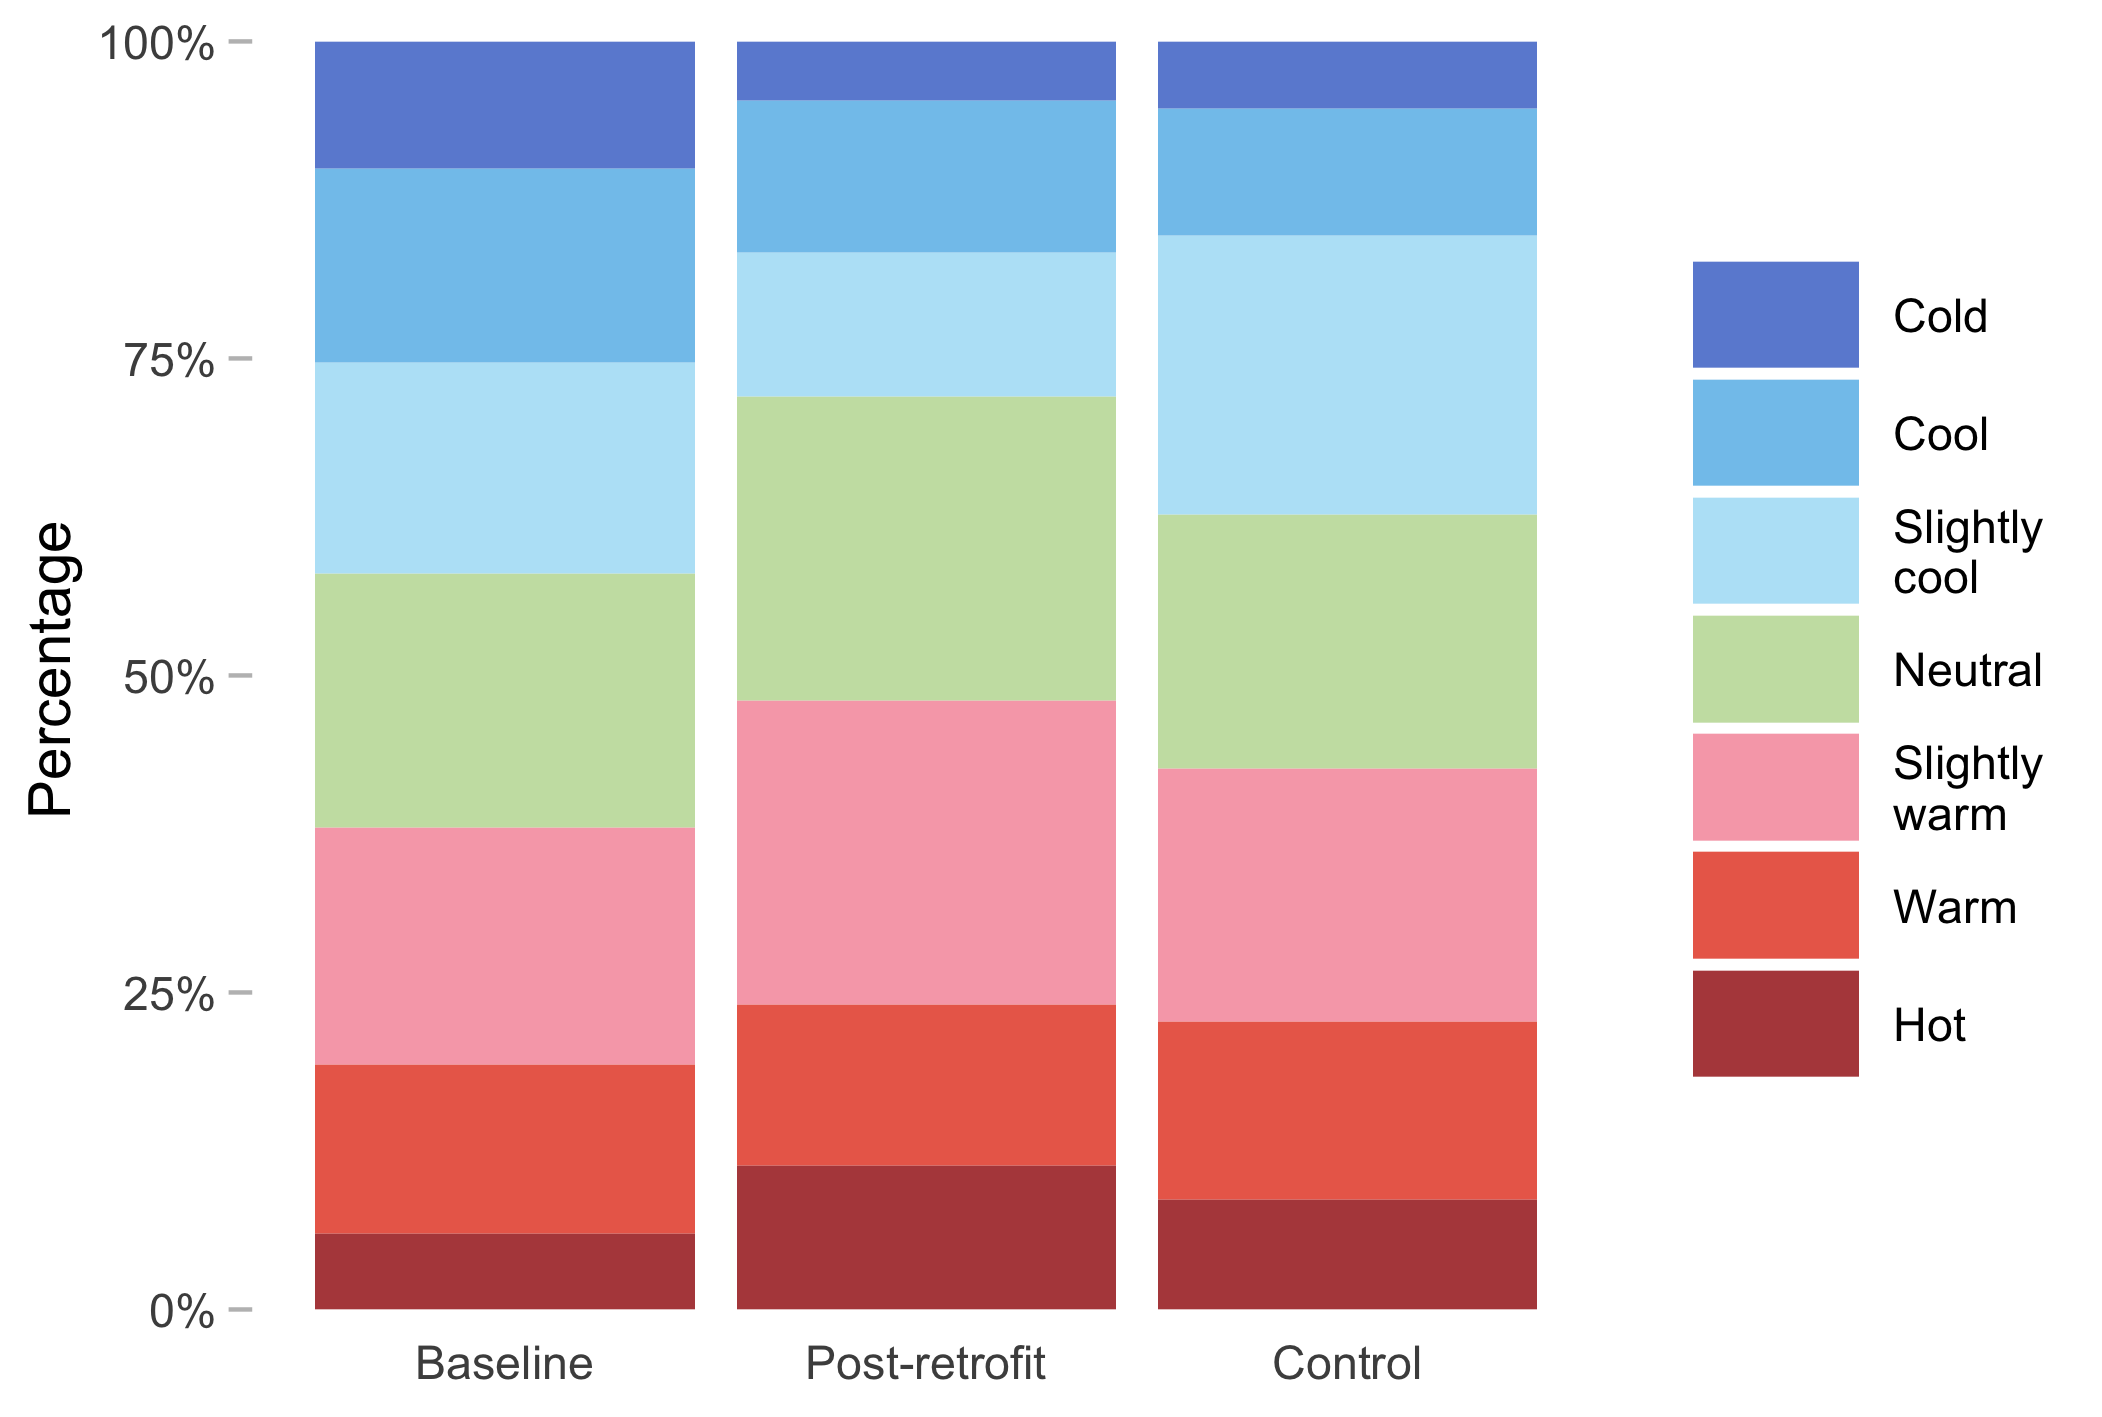
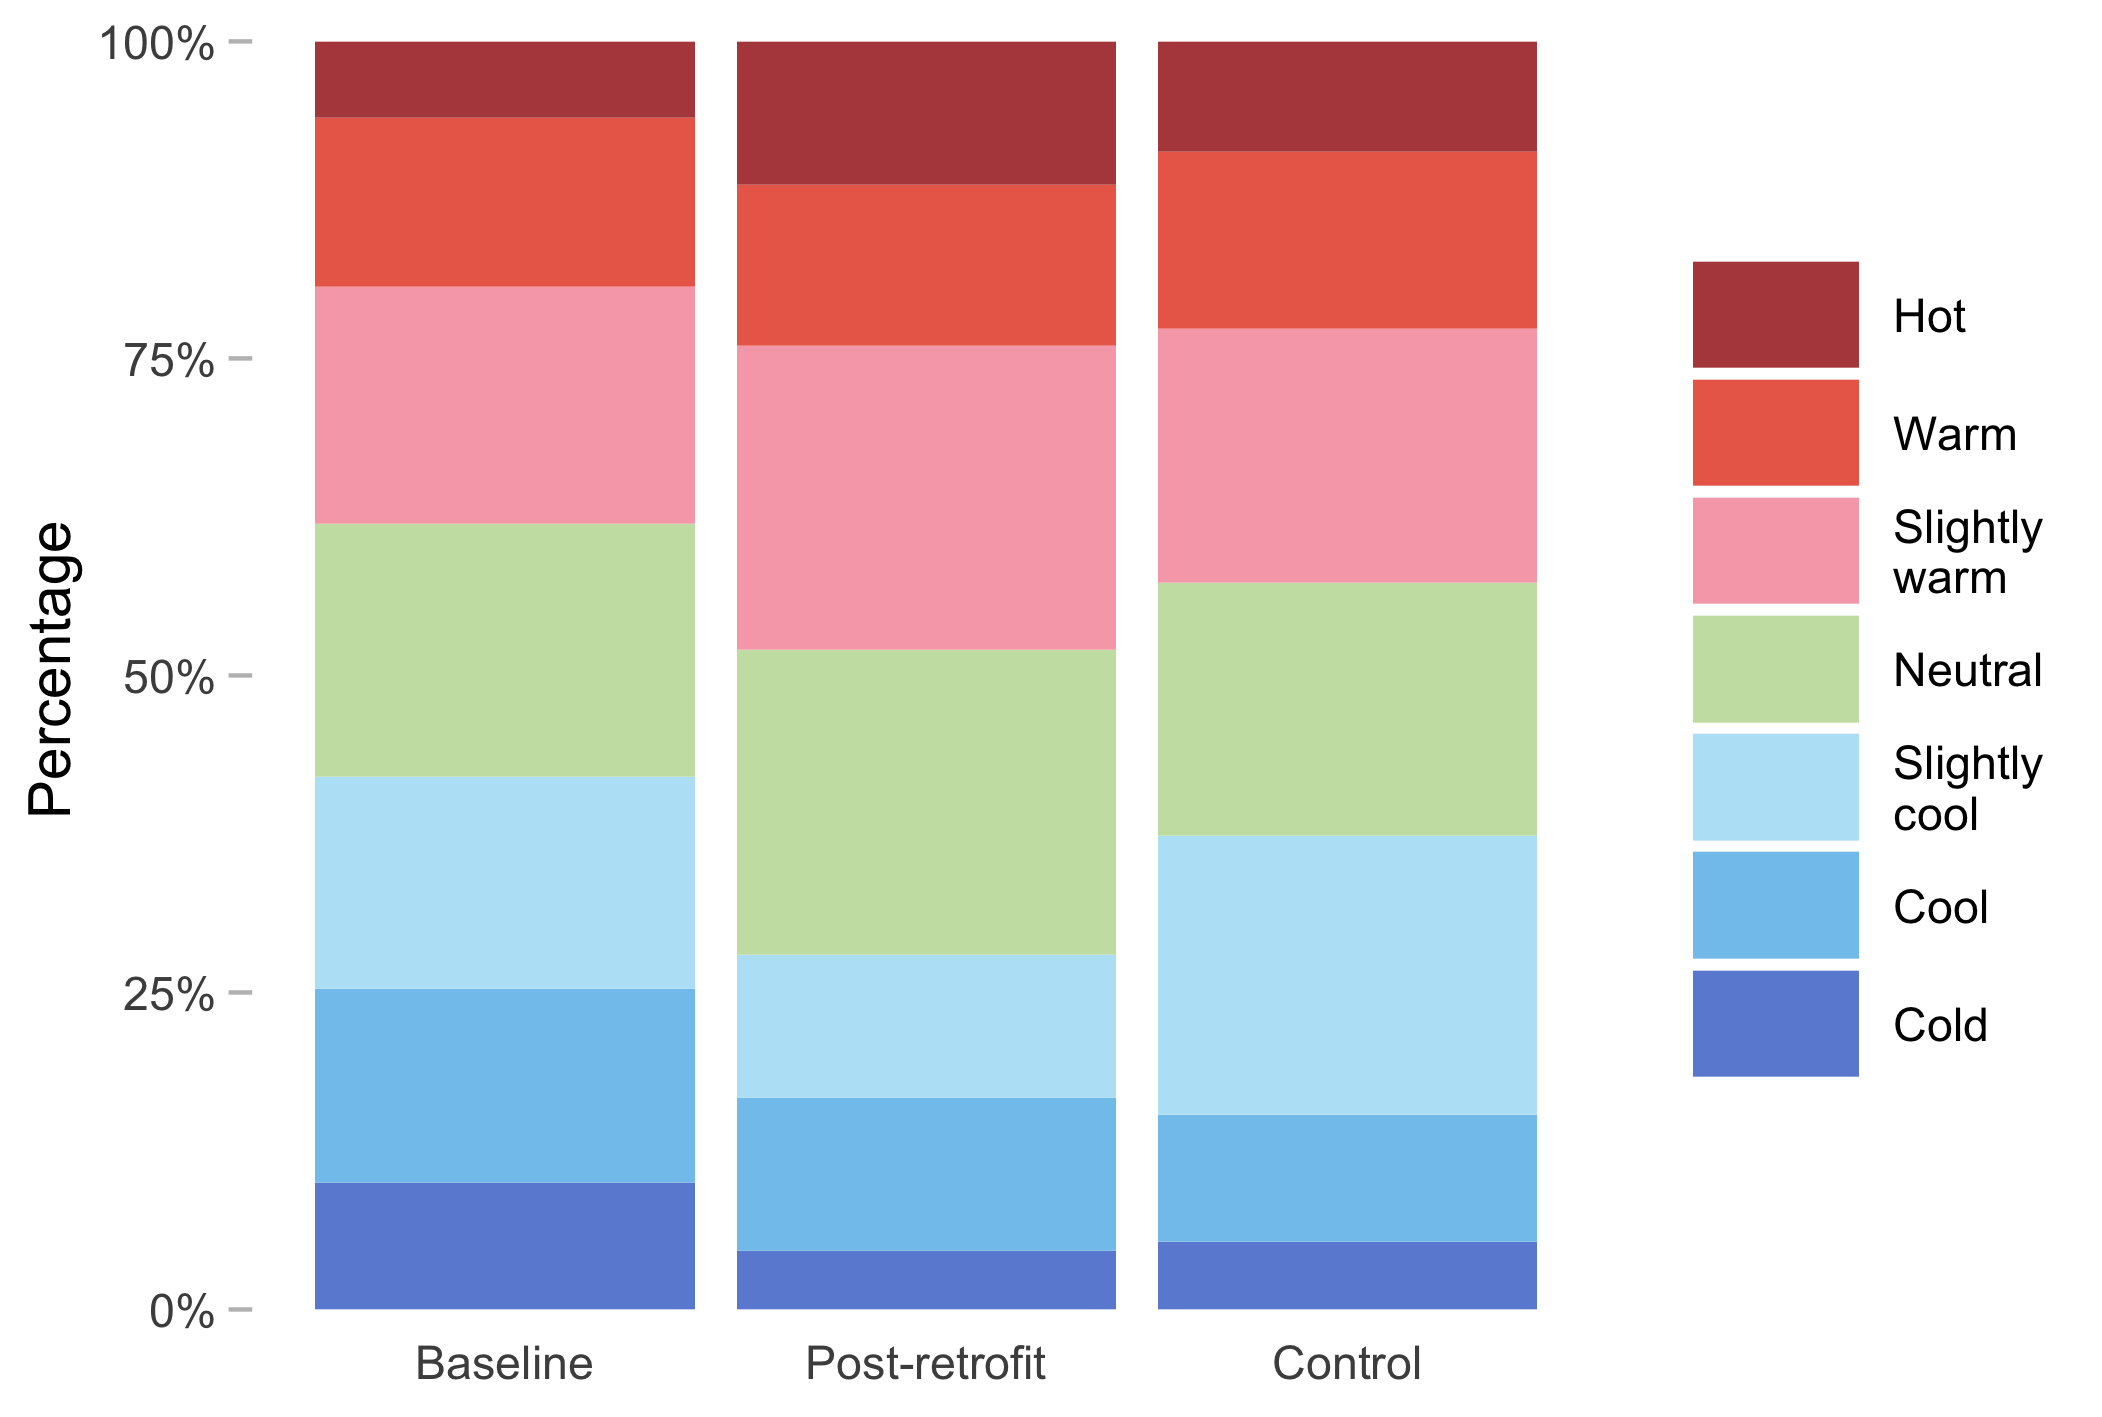
fix: reverse level order

diff --git a/docs/pages/styling/color-palettes.html b/docs/pages/styling/color-palettes.html
@@ -285,7 +285,7 @@ pre > code.sourceCode > span > a:first-child::before { text-decoration: underlin
 <details class="code-fold">
 <summary>Code</summary>
 <div class="code-copy-outer-scaffold"><div class="sourceCode cell-code" id="cb3"><pre class="sourceCode r code-with-copy"><code class="sourceCode r"><span id="cb3-1"><a href="#cb3-1" aria-hidden="true" tabindex="-1"></a>thermal_preference_levels <span class="ot">&lt;-</span> <span class="fu">c</span>(<span class="st">"-1"</span>, <span class="st">"0"</span>, <span class="st">"+1"</span>)</span>
-<span id="cb3-2"><a href="#cb3-2" aria-hidden="true" tabindex="-1"></a>thermal_preference_labels <span class="ot">&lt;-</span> <span class="fu">c</span>(<span class="st">"Cooler"</span>, <span class="st">"No change"</span>, <span class="st">"Warmer"</span>)</span>
+<span id="cb3-2"><a href="#cb3-2" aria-hidden="true" tabindex="-1"></a>thermal_preference_labels <span class="ot">&lt;-</span> <span class="fu">c</span>(<span class="st">"Warmer"</span>, <span class="st">"No change"</span>,<span class="st">"Cooler"</span>)</span>
 <span id="cb3-3"><a href="#cb3-3" aria-hidden="true" tabindex="-1"></a>thermal_preference_palette <span class="ot">&lt;-</span> <span class="fu">c</span>(<span class="st">"#82c6ed"</span>,<span class="st">"#c9e0b0"</span>,<span class="st">"#eb6b58"</span>)</span></code></pre></div><button title="Copy to Clipboard" class="code-copy-button"><i class="bi"></i></button></div>
 </details>
 </div>

diff --git a/docs/pages/code/python.html b/docs/pages/code/python.html
@@ -189,7 +189,7 @@ pre > code.sourceCode > span > a:first-child::before { text-decoration: underlin
 </ul>
             <ul class="navbar-nav navbar-nav-scroll ms-auto">
   <li class="nav-item compact">
-    <a class="nav-link" href="https://github.com/t-kramer/plot-library"> <i class="bi bi-github" role="img" aria-label="GitHub repository">
+    <a class="nav-link" href="https://centerforthebuiltenvironment.github.io/chart-library/"> <i class="bi bi-github" role="img" aria-label="GitHub repository">
 </i> 
 <span class="menu-text"></span></a>
   </li>  

diff --git a/docs/pages/code/r.html b/docs/pages/code/r.html
@@ -189,7 +189,7 @@ pre > code.sourceCode > span > a:first-child::before { text-decoration: underlin
 </ul>
             <ul class="navbar-nav navbar-nav-scroll ms-auto">
   <li class="nav-item compact">
-    <a class="nav-link" href="https://github.com/t-kramer/plot-library"> <i class="bi bi-github" role="img" aria-label="GitHub repository">
+    <a class="nav-link" href="https://centerforthebuiltenvironment.github.io/chart-library/"> <i class="bi bi-github" role="img" aria-label="GitHub repository">
 </i> 
 <span class="menu-text"></span></a>
   </li>  

diff --git a/docs/pages/about.html b/docs/pages/about.html
@@ -153,7 +153,7 @@ ul.task-list li input[type="checkbox"] {
 </ul>
             <ul class="navbar-nav navbar-nav-scroll ms-auto">
   <li class="nav-item compact">
-    <a class="nav-link" href="https://github.com/t-kramer/plot-library"> <i class="bi bi-github" role="img" aria-label="GitHub repository">
+    <a class="nav-link" href="https://centerforthebuiltenvironment.github.io/chart-library/"> <i class="bi bi-github" role="img" aria-label="GitHub repository">
 </i> 
 <span class="menu-text"></span></a>
   </li>  

diff --git a/docs/pages/code/ai.html b/docs/pages/code/ai.html
@@ -154,7 +154,7 @@ ul.task-list li input[type="checkbox"] {
 </ul>
             <ul class="navbar-nav navbar-nav-scroll ms-auto">
   <li class="nav-item compact">
-    <a class="nav-link" href="https://github.com/t-kramer/plot-library"> <i class="bi bi-github" role="img" aria-label="GitHub repository">
+    <a class="nav-link" href="https://centerforthebuiltenvironment.github.io/chart-library/"> <i class="bi bi-github" role="img" aria-label="GitHub repository">
 </i> 
 <span class="menu-text"></span></a>
   </li>  

diff --git a/docs/pages/code/manuscripts.html b/docs/pages/code/manuscripts.html
@@ -153,7 +153,7 @@ ul.task-list li input[type="checkbox"] {
 </ul>
             <ul class="navbar-nav navbar-nav-scroll ms-auto">
   <li class="nav-item compact">
-    <a class="nav-link" href="https://github.com/t-kramer/plot-library"> <i class="bi bi-github" role="img" aria-label="GitHub repository">
+    <a class="nav-link" href="https://centerforthebuiltenvironment.github.io/chart-library/"> <i class="bi bi-github" role="img" aria-label="GitHub repository">
 </i> 
 <span class="menu-text"></span></a>
   </li>  

diff --git a/docs/pages/plots/kent-001.html b/docs/pages/plots/kent-001.html
@@ -156,7 +156,7 @@ ul.task-list li input[type="checkbox"] {
 </ul>
             <ul class="navbar-nav navbar-nav-scroll ms-auto">
   <li class="nav-item compact">
-    <a class="nav-link" href="https://github.com/t-kramer/plot-library"> <i class="bi bi-github" role="img" aria-label="GitHub repository">
+    <a class="nav-link" href="https://centerforthebuiltenvironment.github.io/chart-library/"> <i class="bi bi-github" role="img" aria-label="GitHub repository">
 </i> 
 <span class="menu-text"></span></a>
   </li>  

diff --git a/docs/pages/plots/kent-002.html b/docs/pages/plots/kent-002.html
@@ -156,7 +156,7 @@ ul.task-list li input[type="checkbox"] {
 </ul>
             <ul class="navbar-nav navbar-nav-scroll ms-auto">
   <li class="nav-item compact">
-    <a class="nav-link" href="https://github.com/t-kramer/plot-library"> <i class="bi bi-github" role="img" aria-label="GitHub repository">
+    <a class="nav-link" href="https://centerforthebuiltenvironment.github.io/chart-library/"> <i class="bi bi-github" role="img" aria-label="GitHub repository">
 </i> 
 <span class="menu-text"></span></a>
   </li>  

diff --git a/docs/pages/plots/ko-001.html b/docs/pages/plots/ko-001.html
@@ -156,7 +156,7 @@ ul.task-list li input[type="checkbox"] {
 </ul>
             <ul class="navbar-nav navbar-nav-scroll ms-auto">
   <li class="nav-item compact">
-    <a class="nav-link" href="https://github.com/t-kramer/plot-library"> <i class="bi bi-github" role="img" aria-label="GitHub repository">
+    <a class="nav-link" href="https://centerforthebuiltenvironment.github.io/chart-library/"> <i class="bi bi-github" role="img" aria-label="GitHub repository">
 </i> 
 <span class="menu-text"></span></a>
   </li>  

diff --git a/docs/pages/styling/font-styles.html b/docs/pages/styling/font-styles.html
@@ -153,7 +153,7 @@ ul.task-list li input[type="checkbox"] {
 </ul>
             <ul class="navbar-nav navbar-nav-scroll ms-auto">
   <li class="nav-item compact">
-    <a class="nav-link" href="https://github.com/t-kramer/plot-library"> <i class="bi bi-github" role="img" aria-label="GitHub repository">
+    <a class="nav-link" href="https://centerforthebuiltenvironment.github.io/chart-library/"> <i class="bi bi-github" role="img" aria-label="GitHub repository">
 </i> 
 <span class="menu-text"></span></a>
   </li>  

diff --git a/docs/pages/styling/index.html b/docs/pages/styling/index.html
@@ -154,7 +154,7 @@ ul.task-list li input[type="checkbox"] {
 </ul>
             <ul class="navbar-nav navbar-nav-scroll ms-auto">
   <li class="nav-item compact">
-    <a class="nav-link" href="https://github.com/t-kramer/plot-library"> <i class="bi bi-github" role="img" aria-label="GitHub repository">
+    <a class="nav-link" href="https://centerforthebuiltenvironment.github.io/chart-library/"> <i class="bi bi-github" role="img" aria-label="GitHub repository">
 </i> 
 <span class="menu-text"></span></a>
   </li>  
